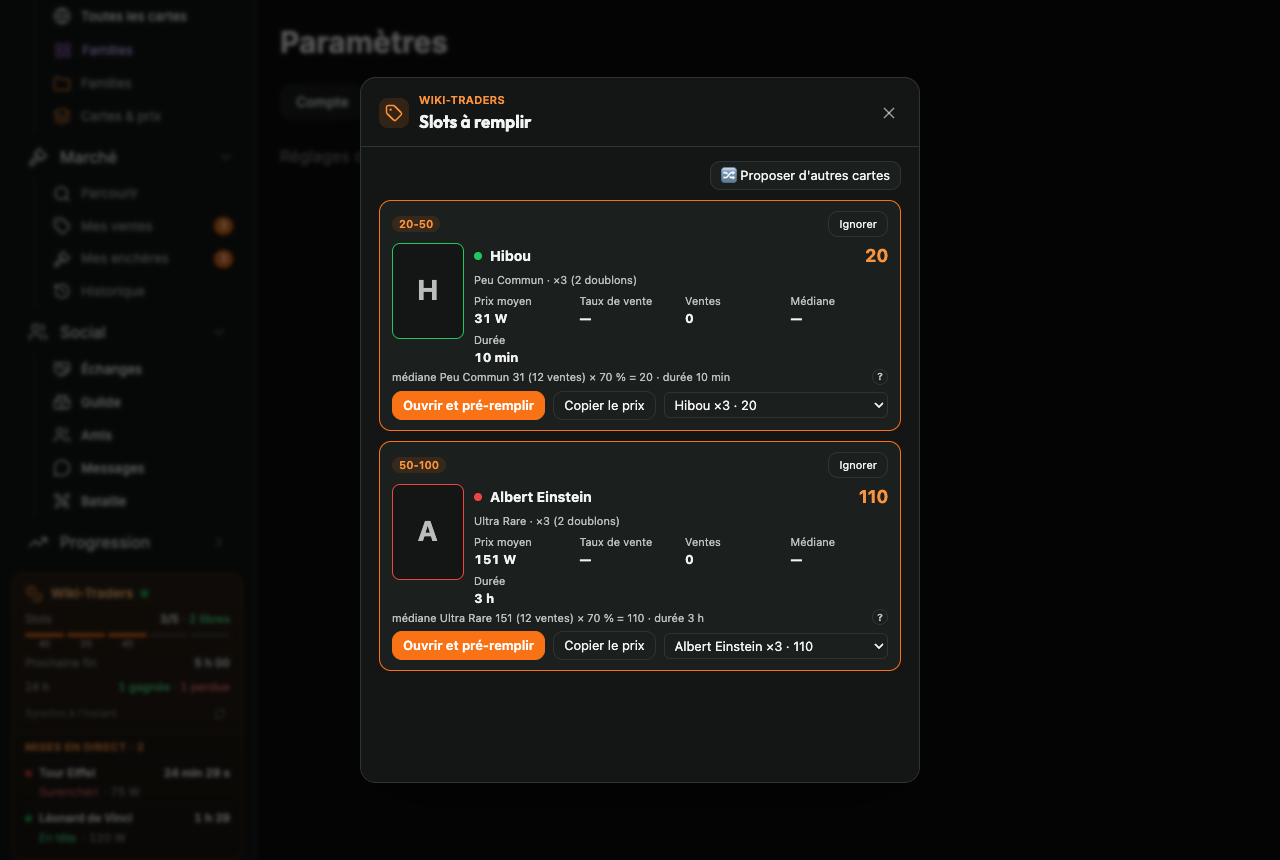
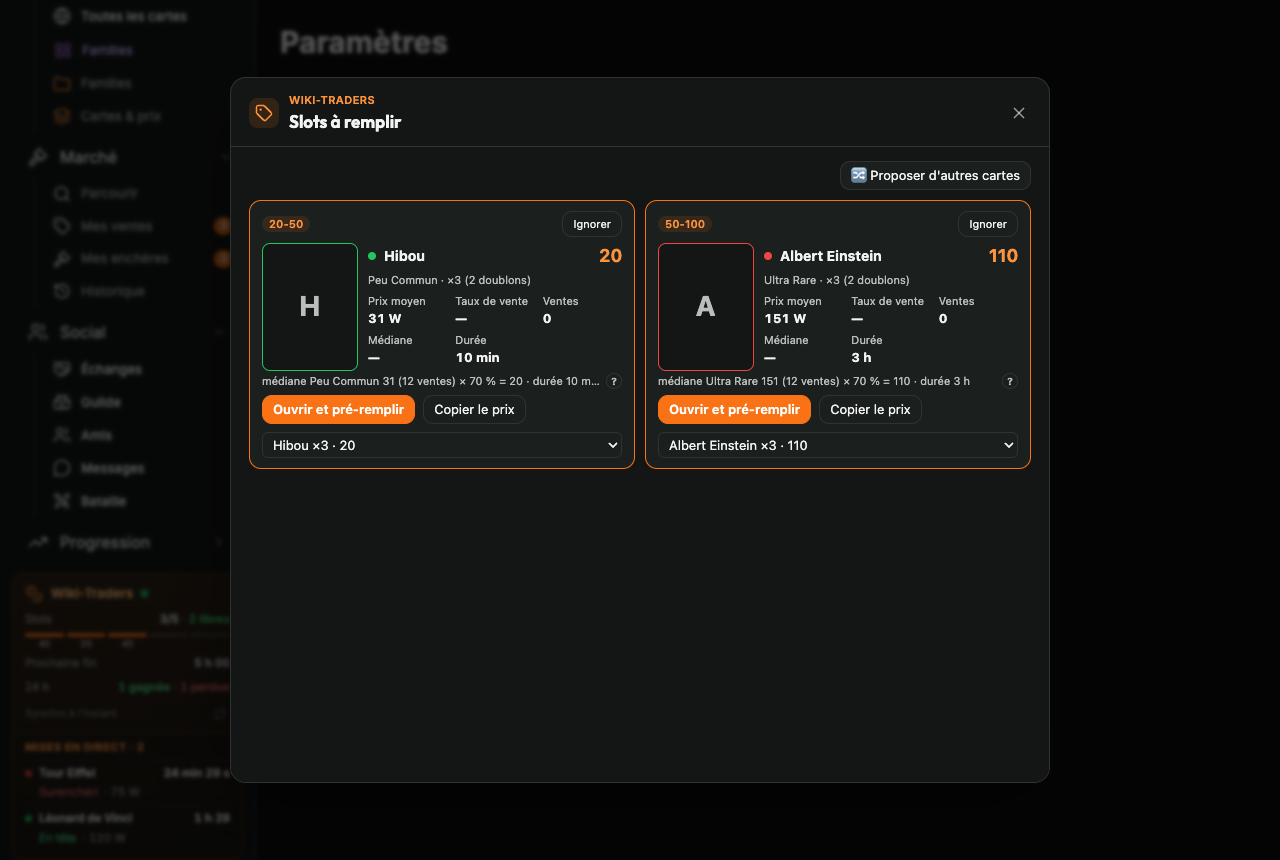
Fenêtre « Slots à remplir » plus large : fiches côte à côte, image plus grande

diff --git a/src/lib/changelog.ts b/src/lib/changelog.ts
@@ -24,6 +24,22 @@ export interface ChangelogEntry {
 
 export const CHANGELOG: ChangelogEntry[] = [
   {
+    id: '2026-10-20',
+    title: 'Fenêtre « Slots à remplir » plus large',
+    sections: [
+      {
+        title: 'Vendre',
+        items: [
+          {
+            title: 'Plus de place pour chaque carte',
+            text: 'La fenêtre « Slots à remplir » s\'ouvre en grand : les fiches des cartes à vendre s\'affichent côte à côte, avec une image plus grande et le détail du prix en entier.',
+            where: 'Bloc Wiki-Traders de la barre latérale → Vendre.',
+          },
+        ],
+      },
+    ],
+  },
+  {
     id: '2026-10-19f',
     title: 'Version 1.0 : des réglages plus simples',
     intro: 'Les réglages sont rangés par ce que tu veux faire, et non plus par niveau de risque. Rien de ce que tu avais réglé n\'est perdu.',

diff --git a/src/ui/popup.css b/src/ui/popup.css
@@ -120,3 +120,14 @@ button.tag-switch:disabled { opacity: .4; }
 .stat .up { color: var(--ok); }
 .stat .down { color: var(--danger); }
 .sale-tags { gap: 4px; }
+
+/* Fenêtre « Slots à remplir » du site (large) : fiches côte à côte, image plus grande. */
+@media (min-width: 640px) {
+  .embed .panel:has(> .sale-card) { display: grid; grid-template-columns: repeat(auto-fill, minmax(340px, 1fr)); gap: 10px; align-items: start; }
+  .embed .panel:has(> .sale-card) > :not(.slot) { grid-column: 1 / -1; }
+  .embed .sale-body { grid-template-columns: 96px minmax(0, 1fr); }
+  .embed .sale-img { width: 96px; height: 128px; }
+  .embed .sale-card .actions { flex-wrap: wrap; }
+  .embed .sale-card .actions select { flex-basis: 100%; }
+  .embed .sale-card .detail.ellipsis { white-space: normal; overflow: visible; }
+}

diff --git a/src/content/site-ui.ts b/src/content/site-ui.ts
@@ -55,7 +55,7 @@ function icon(name: string, size = 20): string {
  * `feature` : masquée si cette fonctionnalité est désactivée.
  */
 const ITEMS: { view: View; label: string; title: string; icon: string; page?: string; wide?: boolean; native?: boolean; feature?: FeatureKey }[] = [
-  { view: 'sell', label: 'Vendre', title: 'Slots à remplir', icon: 'tag' },
+  { view: 'sell', label: 'Vendre', title: 'Slots à remplir', icon: 'tag', wide: true },
   { view: 'running', label: 'Mes ventes', title: 'Mes ventes en cours', icon: 'hourglass' },
   { view: 'bids', label: 'Mes mises', title: 'Mes mises', icon: 'bid' },
   { view: 'cards', label: 'Cartes & prix', title: 'Cartes & prix', icon: 'layers', page: '/collection' },
